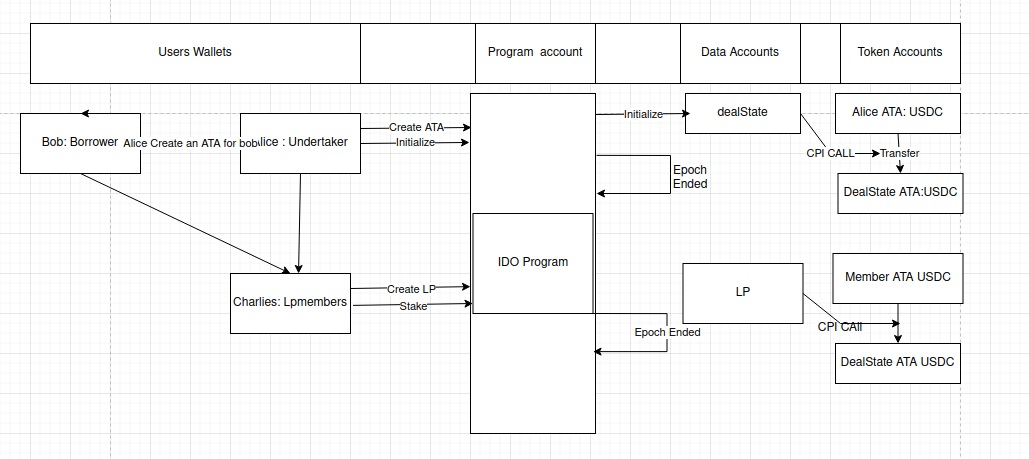
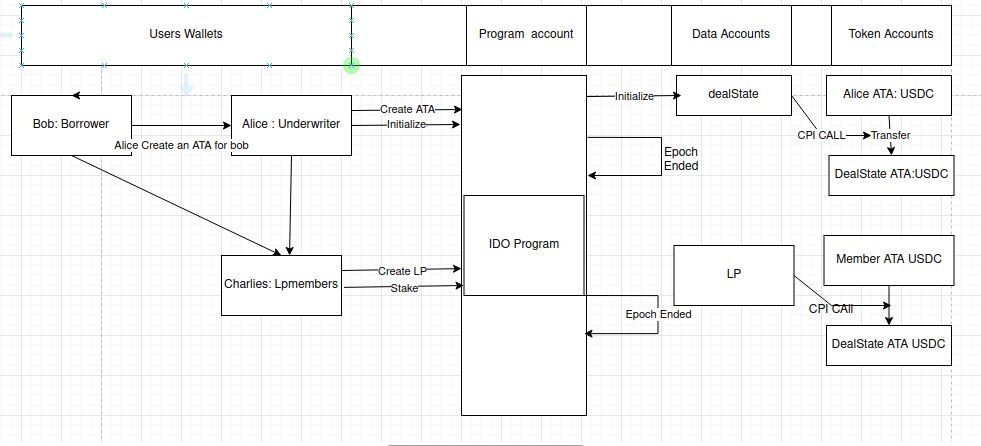
fix Typo

diff --git a/tests/PhasedStaking.ts b/tests/PhasedStaking.ts
@@ -229,7 +229,7 @@ it('can initialize a safe payment by Alice', async () => {
     dealState: pda.stateKey,
     dealWalletState: pda.dealWalletKey,
       mintOfTokenBeingSent: mintAddress,
-      undertaker: alice.publicKey,
+      underwriter: alice.publicKey,
       borrower: bob.publicKey,
       walletToWithdrawFrom: aliceWallet,
       systemProgram: anchor.web3.SystemProgram.programId,
@@ -264,7 +264,7 @@ it('can initialize a safe payment by Alice', async () => {
       dealState: pda.stateKey,
       dealWalletState: pda.dealWalletKey,
         mintOfTokenBeingSent: mintAddress,
-        undertaker: alice.publicKey,
+        underwriter: alice.publicKey,
         borrower: bob.publicKey,
         walletToWithdrawFrom: aliceWallet,
         systemProgram: anchor.web3.SystemProgram.programId,

diff --git a/programs/PhasedStaking/src/context.rs b/programs/PhasedStaking/src/context.rs
@@ -13,16 +13,16 @@ pub struct InitializeDeal<'info> {
      // Derived PDAs
      #[account(
         init,
-        payer = undertaker,
-        seeds=[b"state".as_ref(), undertaker.key().as_ref(), borrower.key.as_ref(), mint_of_token_being_sent.key().as_ref(), application_idx.to_le_bytes().as_ref()],
+        payer = underwriter,
+        seeds=[b"state".as_ref(), underwriter.key().as_ref(), borrower.key.as_ref(), mint_of_token_being_sent.key().as_ref(), application_idx.to_le_bytes().as_ref()],
         bump,
         space=  8 + DealState::MAX_SIZE // 
     )]
     pub deal_state: Account<'info, DealState>, // puppet
     #[account(
         init,
-        payer = undertaker,
-        seeds=[b"wallet".as_ref(), undertaker.key().as_ref(),  borrower.key.as_ref(), mint_of_token_being_sent.key().as_ref(), application_idx.to_le_bytes().as_ref()],
+        payer = underwriter,
+        seeds=[b"wallet".as_ref(), underwriter.key().as_ref(),  borrower.key.as_ref(), mint_of_token_being_sent.key().as_ref(), application_idx.to_le_bytes().as_ref()],
         bump, //= wallet_bump,
         token::mint=mint_of_token_being_sent,
         token::authority=deal_state,
@@ -31,7 +31,7 @@ pub struct InitializeDeal<'info> {
 
     // Pda account of Alice 
     #[account(mut)]
-    pub undertaker: Signer<'info>,                     // Alice
+    pub underwriter: Signer<'info>,                     // Alice
     // CHECK: no checks needed functionnal first secure after 
     // pub lprovider: AccountInfo<'info>,                        // Charlie
     /// CHECK: no checks needed functionnal first secure after 
@@ -41,7 +41,7 @@ pub struct InitializeDeal<'info> {
     // Alice's USDC wallet that has already approved the escrow wallet
     #[account(
         mut,
-        constraint=wallet_to_withdraw_from.owner == undertaker.key(),
+        constraint=wallet_to_withdraw_from.owner == underwriter.key(),
         constraint=wallet_to_withdraw_from.mint == mint_of_token_being_sent.key()
     )]
     pub wallet_to_withdraw_from: Account<'info, TokenAccount>,
@@ -105,17 +105,17 @@ impl<'info> CreateLP<'info> {
 #[instruction(application_idx: u64, state_bump: u8, wallet_bump: u8)]
 pub struct Stake<'info> {
     // Global accounts for the staking instance.
-    #[account(has_one = undertaker, has_one = mint_of_token_being_sent)]
+    #[account(has_one = underwriter, has_one = mint_of_token_being_sent)]
     pub deal_state: Account<'info, DealState>,
     #[account(
         mut,
-        seeds=[b"wallet".as_ref(), undertaker.key().as_ref(), borrower.key.as_ref(), mint_of_token_being_sent.key().as_ref(), application_idx.to_le_bytes().as_ref()],
+        seeds=[b"wallet".as_ref(), underwriter.key().as_ref(), borrower.key.as_ref(), mint_of_token_being_sent.key().as_ref(), application_idx.to_le_bytes().as_ref()],
         bump = wallet_bump,
     )]
     pub deal_wallet_state: Account<'info, TokenAccount>,
     #[account(mut)]
     /// CHECK: nsafe for some reason
-    undertaker: AccountInfo<'info>,                     // Alice
+    underwriter: AccountInfo<'info>,                     // Alice
     #[account(mut)]
     borrower: Signer<'info>,                        // Bob
     mint_of_token_being_sent: Account<'info, Mint>,       // USDC

diff --git a/programs/PhasedStaking/src/lib.rs b/programs/PhasedStaking/src/lib.rs
@@ -22,7 +22,7 @@ pub mod ido {
         // Set the state attributes
         let state = &mut ctx.accounts.deal_state;
         state.idx = application_idx;
-        state.undertaker = ctx.accounts.undertaker.key().clone();
+        state.underwriter= ctx.accounts.underwriter.key().clone();
         state.borrower = ctx.accounts.borrower.key().clone();
         state.mint_of_token_being_sent = ctx.accounts.mint_of_token_being_sent.key().clone();
         state.deal_wallet = ctx.accounts.deal_wallet_state.key().clone();
@@ -38,7 +38,7 @@ pub mod ido {
         let application_idx_bytes = application_idx.to_le_bytes();
         let dealStatePDA = vec![
             b"state".as_ref(),
-            ctx.accounts.undertaker.key.as_ref(),
+            ctx.accounts.underwriter.key.as_ref(),
             ctx.accounts.borrower.key.as_ref(),
             mint_of_token_being_sent_pk.as_ref(), 
             application_idx_bytes.as_ref(),
@@ -50,7 +50,7 @@ pub mod ido {
        let transfer_instruction = Transfer{
             from: ctx.accounts.wallet_to_withdraw_from.to_account_info(),
             to: ctx.accounts.deal_wallet_state.to_account_info(),
-            authority: ctx.accounts.undertaker.to_account_info(),
+            authority: ctx.accounts.underwriter.to_account_info(),
         };
         let cpi_ctx = CpiContext::new_with_signer(
             ctx.accounts.token_program.to_account_info(),

diff --git a/programs/PhasedStaking/src/state.rs b/programs/PhasedStaking/src/state.rs
@@ -25,7 +25,7 @@ pub struct DealState {
     pub idx: u64,
     
     // Alice 
-    pub undertaker: Pubkey,
+    pub underwriter: Pubkey,
 
     // Bob
     pub borrower: Pubkey,
